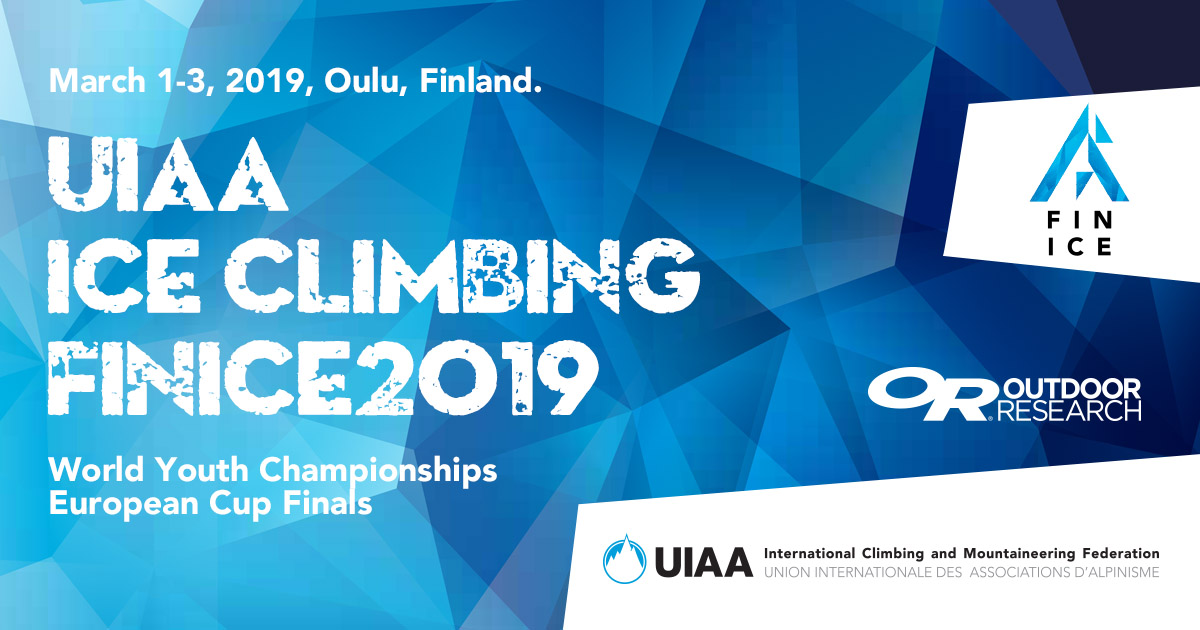
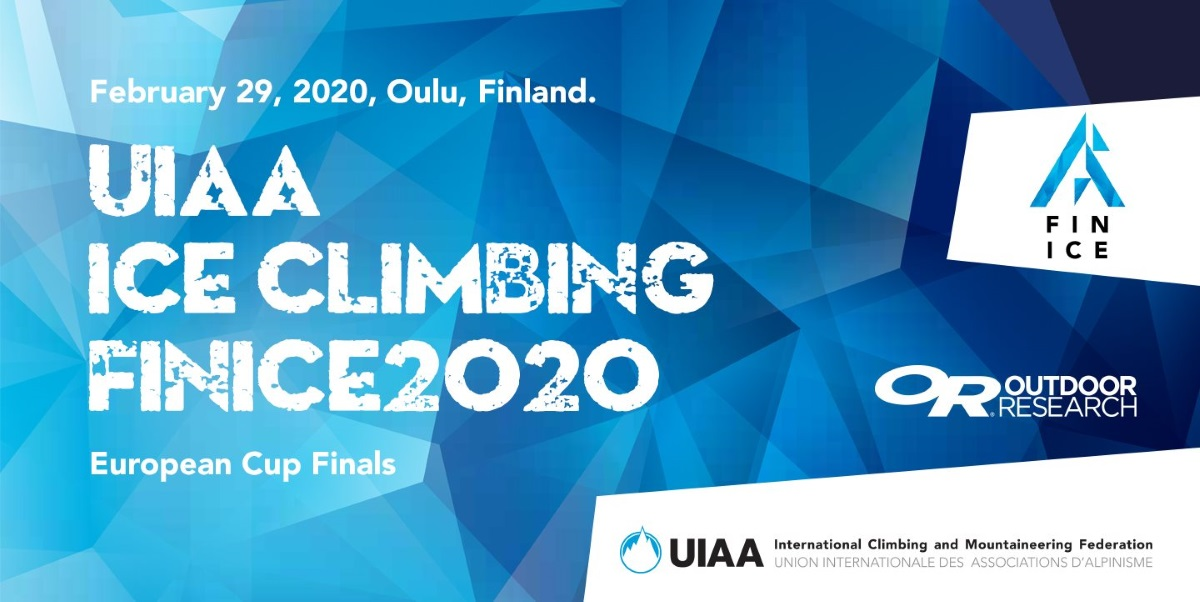
Header image updated

diff --git a/_assets/css/main.css b/_assets/css/main.css
@@ -474,7 +474,7 @@ blockquote {
 
 #head-content {
 	position: relative;
-	background: url(../img/header_new.png) 50% 0 no-repeat;
+	background: url(../img/header_2020.jpg) 50% 0 no-repeat;
 	background-size: cover;
 	padding-top: 50.14%;/*49.091%;*/
 	opacity: 1;
